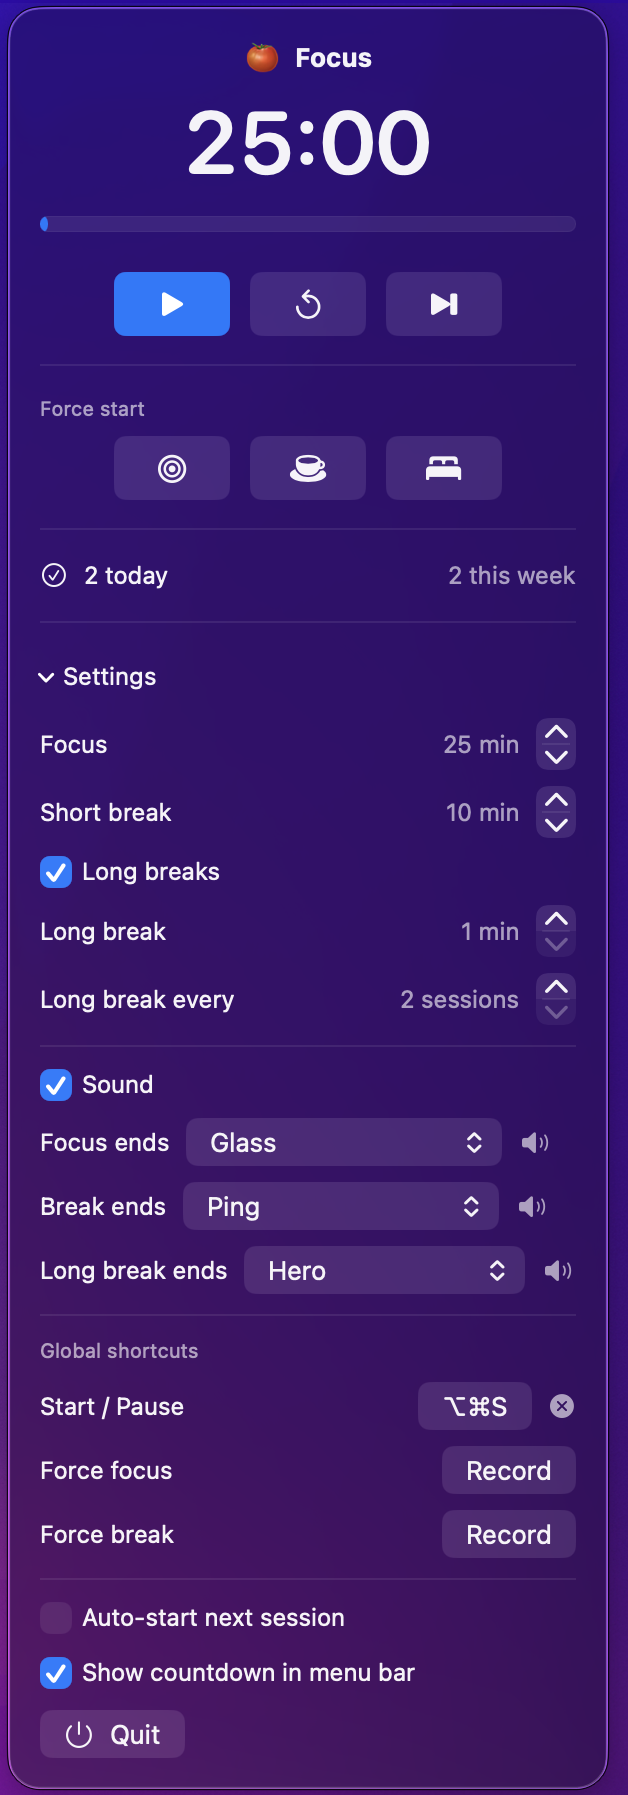
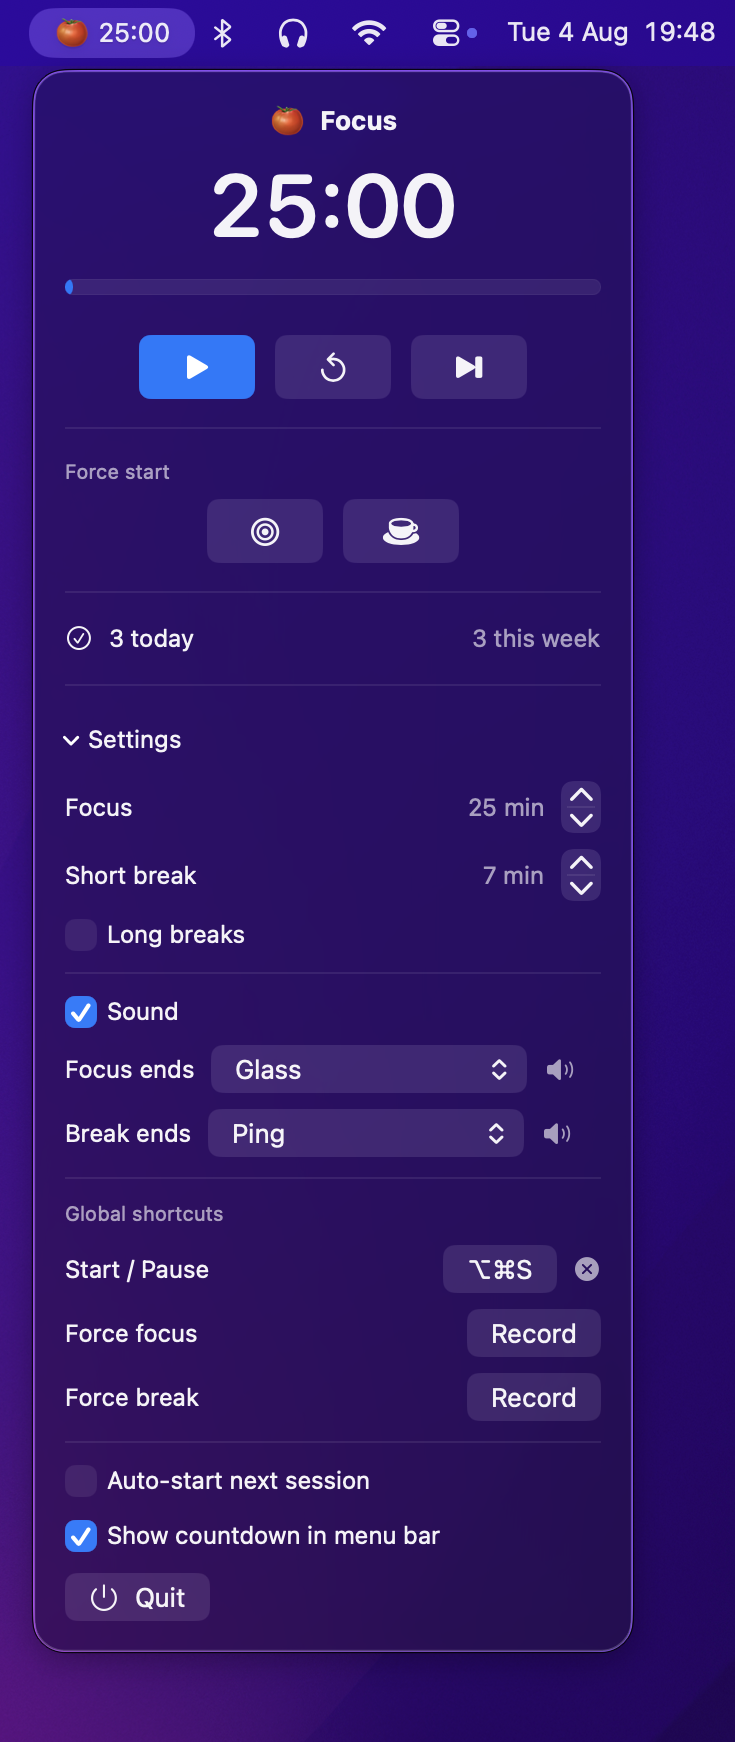
Use a screenshot that shows the menu bar countdown

diff --git a/README.md b/README.md
@@ -3,7 +3,7 @@
 A native macOS menu bar Pomodoro timer. SwiftUI, no dependencies, no Dock icon.
 
 <p align="center">
-  <img src="docs/screenshot.png" alt="The Pomodoro popover: countdown, transport controls, force-start buttons, session stats and the expanded settings" width="330">
+  <img src="docs/screenshot.png" alt="The countdown running in the macOS menu bar, with the popover open below it: timer, transport controls, force-start buttons, session stats and the expanded settings" width="380">
 </p>
 
 ## Features
